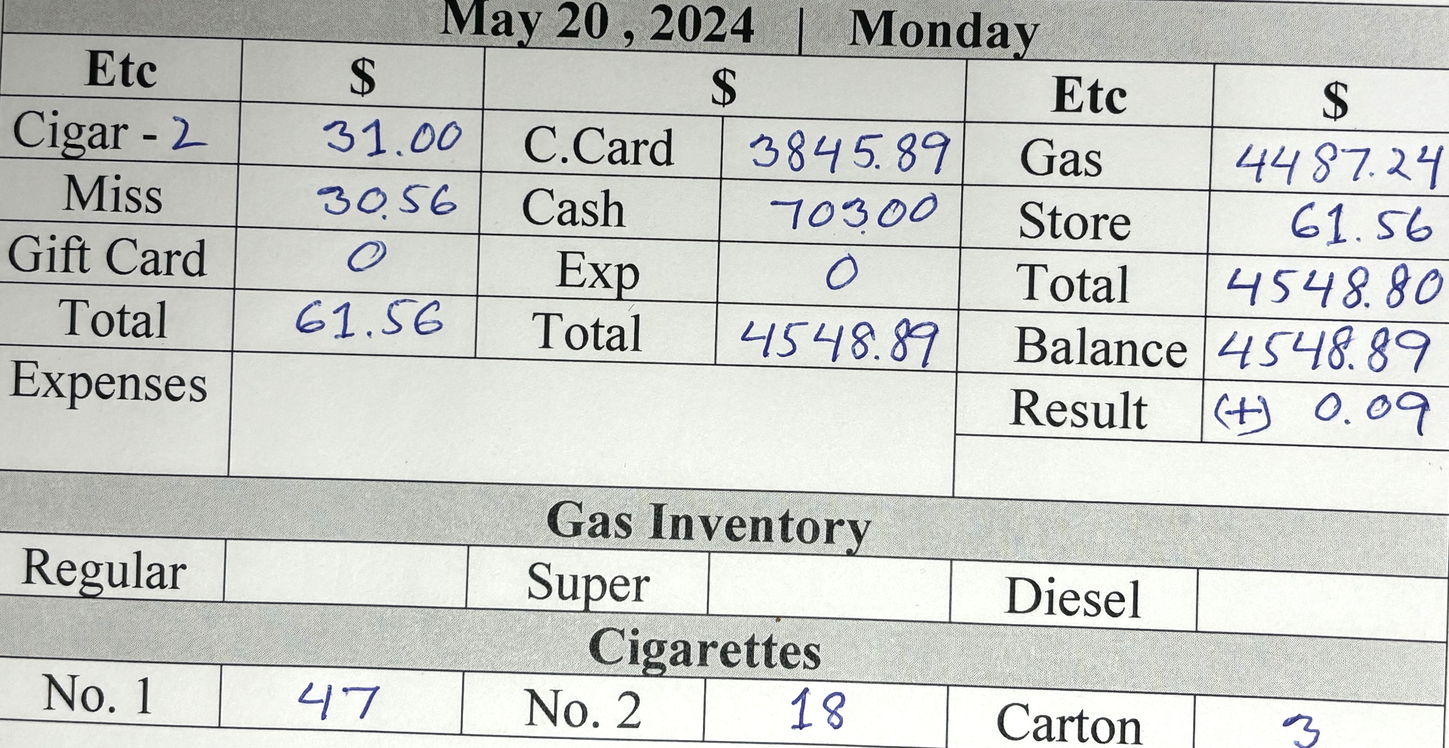
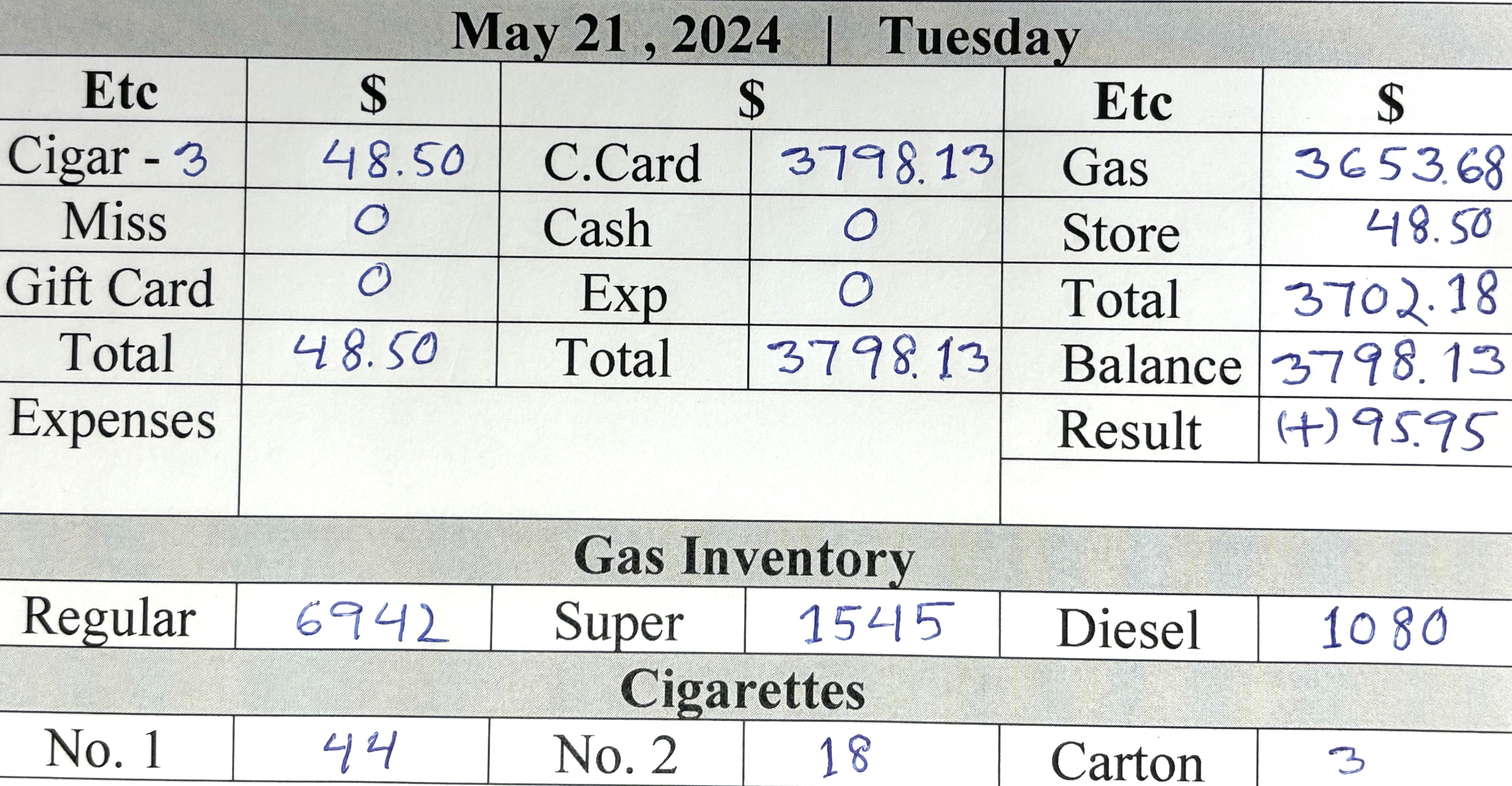
d

diff --git a/card.min.html b/card.min.html
@@ -1,1 +1,1 @@
-<!DOCTYPE html> <html lang="en"> <head> <meta charset="UTF-8"> <meta http-equiv="X-UA-Compatible" content="IE=edge"> <meta name="viewport" content="width=device-width,initial-scale=1"> <title>Gallon Info</title> <link rel="stylesheet" href="https://cdn.jsdelivr.net/npm/bootstrap@5.3.0-alpha1/dist/css/bootstrap.min.css"> </head> <body> <div class="card-group d-sm-flex flex-row bd-highlight mb- justify-content-center"> <div class="card bg-secondary align-items-center justify-content-center" style="height:50px"> <div class="card-body text-info fst-italic"> <h5 class="card-title fw-bolder text-center">Regular Price : <span class="text-warning">$3.59 <sup class="text-white fw-bolder fs-5">9</sup></span></h5> </div> </div> <div class="card bg-secondary align-items-center justify-content-center" style="height:50px"> <div class="card-body text-info fst-italic"> <h5 class="card-title fw-bolder text-center pt-">Silver Price : <span class="text-warning">$4.55<sup class="text-white fw-bolder fs-5">9</sup></span></h5> </div> </div> <div class="card bg-secondary align-items-center justify-content-center" style="height:50px"> <div class="card-body text-info fst-italic"> <h5 class="card-title fw-bolder text-center">Super Price : <span class="text-warning">$4.65<sup class="text-white fw-bolder fs-5">9</sup></span></h5> </div> </div> <div class="card bg-secondary align-items-center justify-content-center" style="height:50px"> <div class="card-body text-info fst-italic"> <h5 class="card-title fw-bolder text-center">Diesel Price : <span class="text-warning">$4.45<sup class="text-white fw-bolder fs-5">9</sup></span></h5> </div> </div> </div> <div class="card-group"> <div class="card"> <button type="button" class="btn btn-warning text- fs- fw-bold text-uppercase"> For store Details <a title="printPage Me" class="text-bg-danger ms-3 fw-bolder p-1 rounded-3 text-decoration-none" href="index.html"> Click Me </a> </button> </div> </div> <div class="card-group m-0 d-sm-flex flex-row bd-highlight mb-"> <div class="card me-1 bg-info"> <h5 class="card-title text-center pt-4 m-0"> <button class="p-1 rounded-3" type="button"><a title="Click Me" class="text-decoration-none text-primary fw-bolder" href="index.html">   </a> </button> </h5>  <p class="card-text"></p> <img src="allPic/20.jpg" class="card-img-top text-danger text-center fw-bolder fs-3" alt="Call Rashid "> <div class="card-body">   <p class="card-text"></p> </div> </div> <div class="card me-1 bg-info"> <h5 class="card-title text-center pt-4 m-0"> <button class="p-1 rounded-3" type="button"><a title="Click Me" class="text-primary fw-bolder text-decoration-none" href="index.html"> May 19,2024 </a> </button> </h5>  <p class="card-text"></p> <img src="allPic/19.jpg" class="card-img-top text-center text-bg-danger" alt="Not Done"> <div class="card-body">   <p class="card-text"></p> </div> </div> <div class="card ms- bg-info"> <h5 class="card-title text-center pt-4 m-0"> <button class="p-1 rounded-3" type="button"><a title="Click Me" class="text-primary fw-bolder text-decoration-none" href="index.html"> May 18 ,2024 </a> </button> </h5>  <p class="card-text"></p> <img src="allPic/18.jpg" class="card-img-top text-center text-bg-danger" alt="Not Done"> <div class="card-body">   <p class="card-text"></p> </div> </div> <div class="card me-1 bg-info"> <h5 class="card-title text-center pt-4 m-0"> <button class="p-1 rounded-3" type="button"><a title="Click Me" class="text-primary fw-bolder text-decoration-none" href="index.html"> May 17,2024 </a> </button> </h5>  <p class="card-text"></p> <img title="Pic" src="allPic/17.jpg" class="card-img-top text-bg-danger fw-bolder text-center" alt="Already Done"> <div class="card-body">   <p class="card-text"></p> </div> </div> </div> <div class="card"> <div class="card-header bg-warning text-dark fw-bolder text-center py-3"> All Rights Reserved @ Jaber Ali , 2024 </div> </div>  <script type="text/javascript">const timeElement=document.querySelector(".time"),dateElement=document.querySelector(".date");function formatTime(e){e.getHours(),e.getMinutes(),e.getHours();return""}function formatDate(e){return` ${["January","Marruary","March","April","May","June","July","August","September","October","November","December"][e.getMonth()]} ${e.getDate()-1}, ${e.getFullYear()}`}setInterval((()=>{const e=new Date;timeElement.textContent=formatTime(e),dateElement.textContent=formatDate(e)}),200)</script> 
+<!DOCTYPE html> <html lang="en"> <head> <meta charset="UTF-8"> <meta http-equiv="X-UA-Compatible" content="IE=edge"> <meta name="viewport" content="width=device-width,initial-scale=1"> <title>Gallon Info</title> <link rel="stylesheet" href="https://cdn.jsdelivr.net/npm/bootstrap@5.3.0-alpha1/dist/css/bootstrap.min.css"> </head> <body> <div class="card-group d-sm-flex flex-row bd-highlight mb- justify-content-center"> <div class="card bg-secondary align-items-center justify-content-center" style="height:50px"> <div class="card-body text-info fst-italic"> <h5 class="card-title fw-bolder text-center">Regular Price : <span class="text-warning">$3.59 <sup class="text-white fw-bolder fs-5">9</sup></span></h5> </div> </div> <div class="card bg-secondary align-items-center justify-content-center" style="height:50px"> <div class="card-body text-info fst-italic"> <h5 class="card-title fw-bolder text-center pt-">Silver Price : <span class="text-warning">$4.55<sup class="text-white fw-bolder fs-5">9</sup></span></h5> </div> </div> <div class="card bg-secondary align-items-center justify-content-center" style="height:50px"> <div class="card-body text-info fst-italic"> <h5 class="card-title fw-bolder text-center">Super Price : <span class="text-warning">$4.65<sup class="text-white fw-bolder fs-5">9</sup></span></h5> </div> </div> <div class="card bg-secondary align-items-center justify-content-center" style="height:50px"> <div class="card-body text-info fst-italic"> <h5 class="card-title fw-bolder text-center">Diesel Price : <span class="text-warning">$4.45<sup class="text-white fw-bolder fs-5">9</sup></span></h5> </div> </div> </div> <div class="card-group"> <div class="card"> <button type="button" class="btn btn-warning text- fs- fw-bold text-uppercase"> For store Details <a title="printPage Me" class="text-bg-danger ms-3 fw-bolder p-1 rounded-3 text-decoration-none" href="index.html"> Click Me </a> </button> </div> </div> <div class="card-group m-0 d-sm-flex flex-row bd-highlight mb-"> <div class="card me-1 bg-info"> <h5 class="card-title text-center pt-4 m-0"> <button class="p-1 rounded-3" type="button"><a title="Click Me" class="text-decoration-none text-primary fw-bolder" href="index.html">   </a> </button> </h5>  <p class="card-text"></p> <img src="allPic/21.jpg" class="card-img-top text-danger text-center fw-bolder fs-3" alt="Call Rashid "> <div class="card-body">   <p class="card-text"></p> </div> </div> <div class="card me-1 bg-info"> <h5 class="card-title text-center pt-4 m-0"> <button class="p-1 rounded-3" type="button"><a title="Click Me" class="text-primary fw-bolder text-decoration-none" href="index.html"> May 20,2024 </a> </button> </h5>  <p class="card-text"></p> <img src="allPic/20.jpg" class="card-img-top text-center text-bg-danger" alt="Not Done"> <div class="card-body">   <p class="card-text"></p> </div> </div> <div class="card ms- bg-info"> <h5 class="card-title text-center pt-4 m-0"> <button class="p-1 rounded-3" type="button"><a title="Click Me" class="text-primary fw-bolder text-decoration-none" href="index.html"> May 19 ,2024 </a> </button> </h5>  <p class="card-text"></p> <img src="allPic/19.jpg" class="card-img-top text-center text-bg-danger" alt="Not Done"> <div class="card-body">   <p class="card-text"></p> </div> </div> <div class="card me-1 bg-info"> <h5 class="card-title text-center pt-4 m-0"> <button class="p-1 rounded-3" type="button"><a title="Click Me" class="text-primary fw-bolder text-decoration-none" href="index.html"> May 18,2024 </a> </button> </h5>  <p class="card-text"></p> <img title="Pic" src="allPic/18.jpg" class="card-img-top text-bg-danger fw-bolder text-center" alt="Already Done"> <div class="card-body">   <p class="card-text"></p> </div> </div> </div> <div class="card"> <div class="card-header bg-warning text-dark fw-bolder text-center py-3"> All Rights Reserved @ Jaber Ali , 2024 </div> </div>  <script type="text/javascript">const timeElement=document.querySelector(".time"),dateElement=document.querySelector(".date");function formatTime(e){e.getHours(),e.getMinutes(),e.getHours();return""}function formatDate(e){return` ${["January","Marruary","March","April","May","June","July","August","September","October","November","December"][e.getMonth()]} ${e.getDate()-1}, ${e.getFullYear()}`}setInterval((()=>{const e=new Date;timeElement.textContent=formatTime(e),dateElement.textContent=formatDate(e)}),200)</script> 

diff --git a/weekly.min.html b/weekly.min.html
@@ -1,1 +1,1 @@
-<!DOCTYPE html> <html lang="en"> <meta charset="UTF-8"> <meta http-equiv="X-UA-Compatible" content="IE=edge"> <meta name="viewport" content="width=device-width,initial-scale=1"> <title>Cigarettes Info</title> <link rel="stylesheet" href="https://cdn.jsdelivr.net/npm/bootstrap@5.3.0-alpha1/dist/css/bootstrap.min.css">  <body> <div class="text-bg-success py-2 fw-bold"> <marquee behavior="" direction="">Weekly Total Sales Money</marquee> </div> <div class="container-fluid text-center m-0 p-0"> <div class="card-group"> <div class="card"> <button type="button" class="btn btn-warning fs- fw-bold text-uppercase"> Home Page <a title="printPage Me" class="text-bg-danger ms-2 fw-bolder p-1 rounded-3 text-decoration-none" href="index.html"> Click Me </a> </button> </div> </div> <div class="text-bg-info text-cente py- fw-bold mb-"> <div class="card-group m-0 d-sm-flex flex-row bd-highlight mb-"> <div class="card me- bg-inf"> <h5 class="text-center ms-5 mt-3 text-danger">Current Week</h5> <div class="card-body ms-3 p-0"> <table class="table"> <tr class="text-end"> <td>Monday </td> <td>:</td> <td class="text-start"> 703.00 </td> </tr> <tr class="text-end"> <td>Tuesday </td> <td> :</td> <td class="text-start"> .00 </td> </tr> <tr class="text-end"> <td>Wednesday</td> <td> :</td> <td class="text-start"> .00</td> </tr> <tr class="text-end"> <td>Thursday </td> <td> :</td> <td class="text-start"> .00 </td> </tr> <tr class="text-end"> <td class="">Friday </td> <td> :</td> <td class="text-start"> .00</td> </tr> <tr class="text-end"> <td>Saturday </td> <td> :</td> <td class="text-start"> .00</td> </tr> <tr class="text-end"> <td>Sunday </td> <td> :</td> <td class="text-start"> .00 </td> </tr> <tr class="text-end"> <td>Auto Money </td> <td> :</td> <td class="text-start"> .00 </td> </tr> </table> <div class="m-0 p-0"> <p class="text-center text-danger bg-light fw-bold">Total Money : 0 </p> </div> </div> </div> <div class="card me- bg-inf"> <h5 class="text-center ms- mt-3 text-danger">Last Week : May 13 to 19 , 2024</h5> <div class="card-body ms-3 p-0"> <table class="table"> <tr class="text-end"> <td>Monday </td> <td>:</td> <td class="text-start"> 591.00 </td> </tr> <tr class="text-end"> <td>Tuesday </td> <td> :</td> <td class="text-start"> 995.00 </td> </tr> <tr class="text-end"> <td>Wednesday</td> <td> :</td> <td class="text-start"> 201.00</td> </tr> <tr class="text-end"> <td>Thursday </td> <td> :</td> <td class="text-start"> - 183.00 [ auto pabe ] </td> </tr> <tr class="text-end"> <td class="">Friday </td> <td> :</td> <td class="text-start"> 684.00</td> </tr> <tr class="text-end"> <td>Saturday </td> <td> :</td> <td class="text-start"> 346.00</td> </tr> <tr class="text-end"> <td>Sunday </td> <td> :</td> <td class="text-start"> 408.00 </td> </tr> <tr class="text-end"> <td>Auto Money </td> <td> :</td> <td class="text-start"> 1492 <sup class="p-1 rounded-4 text-bg-dark">Tax:77</sup> [Mostofa=1415] </td> </tr> </table> <div class="m-0 p-0"> <p class="text-center text-danger bg-light fw-bold">Total Money : 4534 - 1335= 3199 </p> </div> </div> </div> <div class="card me- bg-"> <div class="card-body"> <h5 class="text-start text-danger ms-2">Expenses of Last Week</h5> <table class="table text-start"> <tr> <td class="">Ali <span class="ms-5">: 577.00</span></td> </tr> <tr> <td class="">Rashid <span class="ms-3">: 650.00</span></td> </tr> <tr> <td class="">Landscaping <span class="ms-2">: 100.00</span></td> </tr> <tr> <td class="">Pump Test <span class="ms-2">: 8.00</span></td> </tr> <tr> <td class="text-bg-warning text-dark rounded-2">Total <span class="ms-4">: 1335.00</span></td> </tr> </table> </div> </div> </div> </div> <!-- #footer start --> <div class="text-bg-success text-center py-2 fw-bold"> <p> All Rights Reserved @ Jaber Ali , 2024  </p> </div> </div> <script type="text/javascript">function printPage(){window.print()}</script> 
+<!DOCTYPE html> <html lang="en"> <meta charset="UTF-8"> <meta http-equiv="X-UA-Compatible" content="IE=edge"> <meta name="viewport" content="width=device-width,initial-scale=1"> <title>Cigarettes Info</title> <link rel="stylesheet" href="https://cdn.jsdelivr.net/npm/bootstrap@5.3.0-alpha1/dist/css/bootstrap.min.css">  <body> <div class="text-bg-success py-2 fw-bold"> <marquee behavior="" direction="">Weekly Total Sales Money</marquee> </div> <div class="container-fluid text-center m-0 p-0"> <div class="card-group"> <div class="card"> <button type="button" class="btn btn-warning fs- fw-bold text-uppercase"> Home Page <a title="printPage Me" class="text-bg-danger ms-2 fw-bolder p-1 rounded-3 text-decoration-none" href="index.html"> Click Me </a> </button> </div> </div> <div class="text-bg-info text-cente py- fw-bold mb-"> <div class="card-group m-0 d-sm-flex flex-row bd-highlight mb-"> <div class="card me- bg-inf"> <h5 class="text-center ms-5 mt-3 text-danger">Current Week</h5> <div class="card-body ms-3 p-0"> <table class="table"> <tr class="text-end"> <td>Monday </td> <td>:</td> <td class="text-start"> 703.00 </td> </tr> <tr class="text-end"> <td>Tuesday </td> <td> :</td> <td class="text-start"> - 96.00 [auto pabe] </td> </tr> <tr class="text-end"> <td>Wednesday</td> <td> :</td> <td class="text-start"> .00</td> </tr> <tr class="text-end"> <td>Thursday </td> <td> :</td> <td class="text-start"> .00 </td> </tr> <tr class="text-end"> <td class="">Friday </td> <td> :</td> <td class="text-start"> .00</td> </tr> <tr class="text-end"> <td>Saturday </td> <td> :</td> <td class="text-start"> .00</td> </tr> <tr class="text-end"> <td>Sunday </td> <td> :</td> <td class="text-start"> .00 </td> </tr> <tr class="text-end"> <td>Auto Money </td> <td> :</td> <td class="text-start"> .00 </td> </tr> </table> <div class="m-0 p-0"> <p class="text-center text-danger bg-light fw-bold">Total Money : 0 </p> </div> </div> </div> <div class="card me- bg-inf"> <h5 class="text-center ms- mt-3 text-danger">Last Week : May 13 to 19 , 2024</h5> <div class="card-body ms-3 p-0"> <table class="table"> <tr class="text-end"> <td>Monday </td> <td>:</td> <td class="text-start"> 591.00 </td> </tr> <tr class="text-end"> <td>Tuesday </td> <td> :</td> <td class="text-start"> 995.00 </td> </tr> <tr class="text-end"> <td>Wednesday</td> <td> :</td> <td class="text-start"> 201.00</td> </tr> <tr class="text-end"> <td>Thursday </td> <td> :</td> <td class="text-start"> - 183.00 [ auto pabe ] </td> </tr> <tr class="text-end"> <td class="">Friday </td> <td> :</td> <td class="text-start"> 684.00</td> </tr> <tr class="text-end"> <td>Saturday </td> <td> :</td> <td class="text-start"> 346.00</td> </tr> <tr class="text-end"> <td>Sunday </td> <td> :</td> <td class="text-start"> 408.00 </td> </tr> <tr class="text-end"> <td>Auto Money </td> <td> :</td> <td class="text-start"> 1492 <sup class="p-1 rounded-4 text-bg-dark">Tax:77</sup> [Mostofa=1415] </td> </tr> </table> <div class="m-0 p-0"> <p class="text-center text-danger bg-light fw-bold">Total Money : 4534 - 1335= 3199 </p> </div> </div> </div> <div class="card me- bg-"> <div class="card-body"> <h5 class="text-start text-danger ms-2">Expenses of Last Week</h5> <table class="table text-start"> <tr> <td class="">Ali <span class="ms-5">: 577.00</span></td> </tr> <tr> <td class="">Rashid <span class="ms-3">: 650.00</span></td> </tr> <tr> <td class="">Landscaping <span class="ms-2">: 100.00</span></td> </tr> <tr> <td class="">Pump Test <span class="ms-2">: 8.00</span></td> </tr> <tr> <td class="text-bg-warning text-dark rounded-2">Total <span class="ms-4">: 1335.00</span></td> </tr> </table> </div> </div> </div> </div> <!-- #footer start --> <div class="text-bg-success text-center py-2 fw-bold"> <p> All Rights Reserved @ Jaber Ali , 2024  </p> </div> </div> <script type="text/javascript">function printPage(){window.print()}</script> 

diff --git a/index.min.html b/index.min.html
@@ -1,1 +1,1 @@
-<!DOCTYPE html> <html lang="en"> <head> <meta charset="UTF-8"> <meta http-equiv="X-UA-Compatible" content="IE=edge"> <meta name="viewport" content="width=device-width,initial-scale=1"> <title>Store Info</title> <link rel="stylesheet" href="https://cdn.jsdelivr.net/npm/bootstrap@5.3.0-alpha1/dist/css/bootstrap.min.css"> </head> <body> <div class="text-bg-success py-2 fw-bold text-uppercase"> <marquee behavior="" direction=""><span class="text-bolder text-bg-danger rounded-circle m-lg-2 fs-">***</span> Personal Business Information <span class="text-bolder text-bg-danger rounded-circle m-lg-2 fs-">***</span></marquee> </div> <div class="card-group"> <div class="card"> <button type="button" class="btn btn-warning fs- fw-bold text-uppercase"> For Gallon Details <a title="printPage Me" class="text-bg-danger ms-3 fw-bolder p-1 rounded-3 text-decoration-none" href="card.html"> Click Me </a> </button> </div> <div class="card"> <button type="button" class="btn btn-warning fs- fw-bold text-uppercase"> Weekly Total Money<a title="printPage Me" class="text-bg-danger ms-3 fw-bolder p-1 rounded-3 text-decoration-none" href="weekly.html"> Click Me </a> </button> </div> </div> <div class="card-group"> <div class="card"> <button type="button" class="btn btn-warning fs- fw-bold text-uppercase"> Order Cigarettes <a title="printPage Me" class="text-bg-danger ms-3 fw-bolder p-1 rounded-3 text-decoration-none" href="cigarettes.html"> Click Me </a> </button> </div> <div class="card"> <button type="button" class="btn btn-warning fs- fw-bold text-uppercase"> Oil Inventory<a title="printPage Me" class="text-bg-danger ms-3 fw-bolder p-1 rounded-3 text-decoration-none" href="oil.html"> Click Me </a> </button> </div> </div> <div class="text-center py-2"> <button class="fw-bold fs-5 rounded-2 text-bg-light text-primary"> <a title="printPage Me" class="text-decoration-none" href="card.html">   <span class=""> <button class="ms-5 fw-bolder rounded-2" onclick="printPage()"> Print Me </button></span> </a> </button> </div> <div class="card-group"> <div class="card"> <button type="button" class="btn btn-info fs- fw-bold text-uppercase"> Shift Report <span class="text-white ms-1">*</span> </button> <img src="allPic/hisab.jpg" class="card-img-top text-center text-bg-danger" alt="NOT FINISH"> </div> </div> <div class="card-grou"> <div class="card pb-3"> <button type="button" class="btn btn-secondary fs fw-bold text-uppercase"> Exp : <span class="text-warning ms-3">0 </span> </button> </div> </div> <div class="card-group"> <div class="card"> <button type="button" class="btn btn-secondary fs- fw-bold text-uppercase"> Auto shop </button> </div> </div> <div class="pb-3"> <div class="d-flex justify-content-around border border-dark fw-bolder"> <div class="p-0 text-info">T.M</div> <div class="p-0 text-danger">3755</div> <div class="p-0 text-info">Etc</div> <div class="p-0 text-danger">925</div> <div class="p-0 text-info">Rest</div> <div class="p-0 text-danger"> 2830= 1415 </div> </div> </div> <!-- #footer start --> <div class="text-bg-warning text-center py-3 fw-bold"> All Rights Reserved @ Jaber Ali , 2024 </div>  <script type="text/javascript">function printPage(){window.print()}const timeElement=document.querySelector(".time"),dateElement=document.querySelector(".date");function formatTime(t){const e=t.getHours()%12||12,n=t.getMinutes(),r=t.getHours()<12;return`${e.toString().padStart(2,"0")}:${n.toString().padStart(2,"0")} ${r?"AM":"PM"}`}function formatDate(t){return` ${["January","February","March","April","May","June","July","August","September","October","November","December"][t.getMonth()]} ${t.getDate()-1}, ${t.getFullYear()}`}setInterval((()=>{const t=new Date;timeElement.textContent=formatTime(t),dateElement.textContent=formatDate(t)}),200)</script> 
+<!DOCTYPE html> <html lang="en"> <head> <meta charset="UTF-8"> <meta http-equiv="X-UA-Compatible" content="IE=edge"> <meta name="viewport" content="width=device-width,initial-scale=1"> <title>Store Info</title> <link rel="stylesheet" href="https://cdn.jsdelivr.net/npm/bootstrap@5.3.0-alpha1/dist/css/bootstrap.min.css"> </head> <body> <div class="text-bg-success py-2 fw-bold text-uppercase"> <marquee behavior="" direction=""><span class="text-bolder text-bg-danger rounded-circle m-lg-2 fs-">***</span> Personal Business Information <span class="text-bolder text-bg-danger rounded-circle m-lg-2 fs-">***</span></marquee> </div> <div class="card-group"> <div class="card"> <button type="button" class="btn btn-warning fs- fw-bold text-uppercase"> For Gallon Details <a title="printPage Me" class="text-bg-danger ms-3 fw-bolder p-1 rounded-3 text-decoration-none" href="card.html"> Click Me </a> </button> </div> <div class="card"> <button type="button" class="btn btn-warning fs- fw-bold text-uppercase"> Weekly Total Money<a title="printPage Me" class="text-bg-danger ms-3 fw-bolder p-1 rounded-3 text-decoration-none" href="weekly.html"> Click Me </a> </button> </div> </div> <div class="card-group"> <div class="card"> <button type="button" class="btn btn-warning fs- fw-bold text-uppercase"> Order Cigarettes <a title="printPage Me" class="text-bg-danger ms-3 fw-bolder p-1 rounded-3 text-decoration-none" href="cigarettes.html"> Click Me </a> </button> </div> <div class="card"> <button type="button" class="btn btn-warning fs- fw-bold text-uppercase"> Oil Inventory<a title="printPage Me" class="text-bg-danger ms-3 fw-bolder p-1 rounded-3 text-decoration-none" href="oil.html"> Click Me </a> </button> </div> </div> <div class="text-center py-2"> <button class="fw-bold fs-5 rounded-2 text-bg-light text-primary"> <a title="printPage Me" class="text-decoration-none" href="card.html">   <span class=""> <button class="ms-5 fw-bolder rounded-2" onclick="printPage()"> Print Me </button></span> </a> </button> </div> <div class="card-group"> <div class="card"> <button type="button" class="btn btn-info fs- fw-bold text-uppercase"> Shift Report <span class="text-white ms-1">*</span> </button> <img src="allPic/hisab.jpg" class="card-img-top text-center text-bg-danger" alt="NOT FINISH"> </div> </div> <div class="card-grou"> <div class="card pb-3"> <button type="button" class="btn btn-secondary fs fw-bold text-uppercase"> Exp : <span class="text-warning ms-3">0 </span> </button> </div> </div> <div class="card-group"> <div class="card"> <button type="button" class="btn btn-secondary fs- fw-bold text-uppercase"> Auto shop </button> </div> </div> <div class="pb-3"> <div class="d-flex justify-content-around border border-dark fw-bolder"> <div class="p-0 text-info">T.M</div> <div class="p-0 text-danger">1105</div> <div class="p-0 text-info">Etc</div> <div class="p-0 text-danger">97</div> <div class="p-0 text-info">Rest</div> <div class="p-0 text-danger"> 1008 </div> </div> </div> <!-- #footer start --> <div class="text-bg-warning text-center py-3 fw-bold"> All Rights Reserved @ Jaber Ali , 2024 </div>  <script type="text/javascript">function printPage(){window.print()}const timeElement=document.querySelector(".time"),dateElement=document.querySelector(".date");function formatTime(t){const e=t.getHours()%12||12,n=t.getMinutes(),r=t.getHours()<12;return`${e.toString().padStart(2,"0")}:${n.toString().padStart(2,"0")} ${r?"AM":"PM"}`}function formatDate(t){return` ${["January","February","March","April","May","June","July","August","September","October","November","December"][t.getMonth()]} ${t.getDate()-1}, ${t.getFullYear()}`}setInterval((()=>{const t=new Date;timeElement.textContent=formatTime(t),dateElement.textContent=formatDate(t)}),200)</script> 

diff --git a/oil.min.html b/oil.min.html
@@ -1,1 +1,1 @@
-<!DOCTYPE html> <html lang="en"> <meta charset="UTF-8"> <meta http-equiv="X-UA-Compatible" content="IE=edge"> <meta name="viewport" content="width=device-width,initial-scale=1"> <title>Oil Inentory</title> <link rel="stylesheet" href="https://cdn.jsdelivr.net/npm/bootstrap@5.3.0-alpha1/dist/css/bootstrap.min.css">  <body> <div class="text-bg-success py-2 fw-bold"> <marquee behavior="" direction="">OIL INVENTORY</marquee> </div> <div class="container-fluid text-center m-0 p-0"> <div class="card-group"> <div class="card"> <button type="button" class="btn btn-warning fs- fw-bold text-uppercase"> Home Page <a title="printPage Me" class="text-bg-danger ms-2 fw-bolder p-1 rounded-3 text-decoration-none" href="index.html"> Click Me </a> </button> </div> </div> <div class="text-bg-inf fw-bold mb-"> <div class="card-group m- text-cente d-sm-flex flex-row bd-highlight mb-"> <div class="container mt-3"> <h3>Oil Inventory</h3> <div class="table-responsive-sm"> <table class="table table-bordered"> <tbody> <thead class="text-bg-dark fw-bolder"> <tr> <td>Name</td> <td>Quantity</td> <td>Sold</td> </tr> </thead> <tr> <td>Synthetic Oil</td> <td>21</td> <td>0</td> </tr> <tr> <td>Regular Oil</td> <td>37</td> <td>1 </td> </tr> <tr> <td>Washer Fluid</td> <td>0</td> <td>0</td> </tr> <tr> <td>Antifreeze </td> <td>2</td> <td>0</td> </tr> <tr> <td>Gas Can</td> <td>2</td> <td>1</td> </tr> <tr> <td>Rhino Item</td> <td>106</td> <td>0</td> </tr> </tbody> </table> </div> </div> </div> </div> </div> <!-- #footer start --> <div class="text-bg-success text-center py-2 fw-bold"> <p> All Rights Reserved @ Jaber Ali , 2024  </p> </div>  <script type="text/javascript">function printPage(){window.print()}</script> 
+<!DOCTYPE html> <html lang="en"> <meta charset="UTF-8"> <meta http-equiv="X-UA-Compatible" content="IE=edge"> <meta name="viewport" content="width=device-width,initial-scale=1"> <title>Oil Inentory</title> <link rel="stylesheet" href="https://cdn.jsdelivr.net/npm/bootstrap@5.3.0-alpha1/dist/css/bootstrap.min.css">  <body> <div class="text-bg-success py-2 fw-bold"> <marquee behavior="" direction="">OIL INVENTORY</marquee> </div> <div class="container-fluid text-center m-0 p-0"> <div class="card-group"> <div class="card"> <button type="button" class="btn btn-warning fs- fw-bold text-uppercase"> Home Page <a title="printPage Me" class="text-bg-danger ms-2 fw-bolder p-1 rounded-3 text-decoration-none" href="index.html"> Click Me </a> </button> </div> </div> <div class="text-bg-inf fw-bold mb-"> <div class="card-group m- text-cente d-sm-flex flex-row bd-highlight mb-"> <div class="container mt-3"> <h3>Oil Inventory</h3> <div class="table-responsive-sm"> <table class="table table-bordered"> <tbody> <thead class="text-bg-dark fw-bolder"> <tr> <td>Name</td> <td>Quantity</td> <td>Sold</td> </tr> </thead> <tr> <td>Synthetic Oil</td> <td>21</td> <td>0</td> </tr> <tr> <td>Regular Oil</td> <td>37</td> <td>0 </td> </tr> <tr> <td>Washer Fluid</td> <td>0</td> <td>0</td> </tr> <tr> <td>Antifreeze </td> <td>2</td> <td>0</td> </tr> <tr> <td>Gas Can</td> <td>2</td> <td>0</td> </tr> <tr> <td>Rhino Item</td> <td>106</td> <td>0</td> </tr> </tbody> </table> </div> </div> </div> </div> </div> <!-- #footer start --> <div class="text-bg-success text-center py-2 fw-bold"> <p> All Rights Reserved @ Jaber Ali , 2024  </p> </div>  <script type="text/javascript">function printPage(){window.print()}</script> 

diff --git a/card.html b/card.html
@@ -67,7 +67,7 @@
         </h5>
           <p class="card-text"></p>
           <p class="card-text"><small class="text-muted"></small></p>
-        <img src="allPic/20.jpg" class="card-img-top text-danger text-center fw-bolder fs-3"   alt="Call Rashid ">
+        <img src="allPic/21.jpg" class="card-img-top text-danger text-center fw-bolder fs-3"   alt="Call Rashid ">
         <div class="card-body">
           <h5 class="card-title"></h5>
           <p class="card-text"></p>
@@ -78,13 +78,13 @@
         <h5 class="card-title text-center pt-4 m-0">
           <button class="p-1 rounded-3" type="button"><a title="Click Me"
              class="text-primary fw-bolder text-decoration-none " href="index.html">
-             May 19,2024
+             May 20,2024
           </a>
           </button>
         </h5>
           <p class="card-text"></p>
           <p class="card-text"><small class="text-muted"></small></p>
-        <img src="allPic/19.jpg" class="card-img-top text-center text-bg-danger" 
+        <img src="allPic/20.jpg" class="card-img-top text-center text-bg-danger" 
         alt="Not Done">
         <div class="card-body">
           <h5 class="card-title"></h5>
@@ -96,13 +96,13 @@
         <h5 class="card-title text-center pt-4 m-0 ">
           <button class="p-1 rounded-3" type="button"><a title="Click Me" 
             class="text-primary fw-bolder text-decoration-none " href="index.html">
-            May 18 ,2024         
+            May 19 ,2024         
           </a>
           </button>
           </h5>
           <p class="card-text"></p>
           <p class="card-text"><small class="text-muted"></small></p>
-        <img src="allPic/18.jpg" class="card-img-top text-center text-bg-danger" 
+        <img src="allPic/19.jpg" class="card-img-top text-center text-bg-danger" 
         alt="Not Done">
         <div class="card-body">
           <h5 class="card-title"></h5>
@@ -115,13 +115,13 @@
         <h5 class="card-title text-center pt-4 m-0 ">
           <button class="p-1 rounded-3" type="button"><a title="Click Me" 
             class="text-primary fw-bolder text-decoration-none " href="index.html">
-             May 17,2024
+             May 18,2024
             </a>
           </button>
           </h5>
           <p class="card-text"></p>
           <p class="card-text"><small class="text-muted"></small></p>
-        <img title="Pic" src="allPic/17.jpg" class="card-img-top  text-bg-danger fw-bolder text-center"
+        <img title="Pic" src="allPic/18.jpg" class="card-img-top  text-bg-danger fw-bolder text-center"
          alt="Already Done">
         <div class="card-body">
           <h5 class="card-title"></h5>

diff --git a/index.html b/index.html
@@ -118,12 +118,12 @@
       <div class="d-flex justify-content-around border border-dark fw-bolder">
         <!--this week start-->
         <div class="p-0 text-info">T.M</div>
-        <div class="p-0 text-danger">3755</div>
+        <div class="p-0 text-danger">1105</div>
         <div class="p-0 text-info">Etc</div>
-        <div class="p-0 text-danger">925</div>
+        <div class="p-0 text-danger">97</div>
         <div class="p-0 text-info">Rest</div>
-        <div class="p-0 text-danger"> 2830= 1415 </div>
-          <!--15-->
+        <div class="p-0 text-danger"> 1008 </div>
+          <!--105-->
         </div>
       </div>
     

diff --git a/oil.html b/oil.html
@@ -62,7 +62,7 @@
                   <tr>
                     <td>Regular Oil</td>
                     <td>37</td>
-                    <td>1 </td>
+                    <td>0 </td>
                   </tr>
                  
                   <tr>
@@ -78,7 +78,7 @@
                   <tr>
                     <td>Gas Can</td>
                     <td>2</td>
-                    <td>1</td>
+                    <td>0</td>
                   </tr>
                   <tr>
                     <td>Rhino Item</td>

diff --git a/weekly.html b/weekly.html
@@ -54,7 +54,7 @@
                 <tr class=" text-end">
                     <td>Tuesday </td>
                     <td> :</td>
-                    <td class="text-start">  .00 </td>
+                    <td class="text-start"> - 96.00 [auto pabe] </td>
                 </tr>
                 <tr class=" text-end">
                     <td>Wednesday</td>
